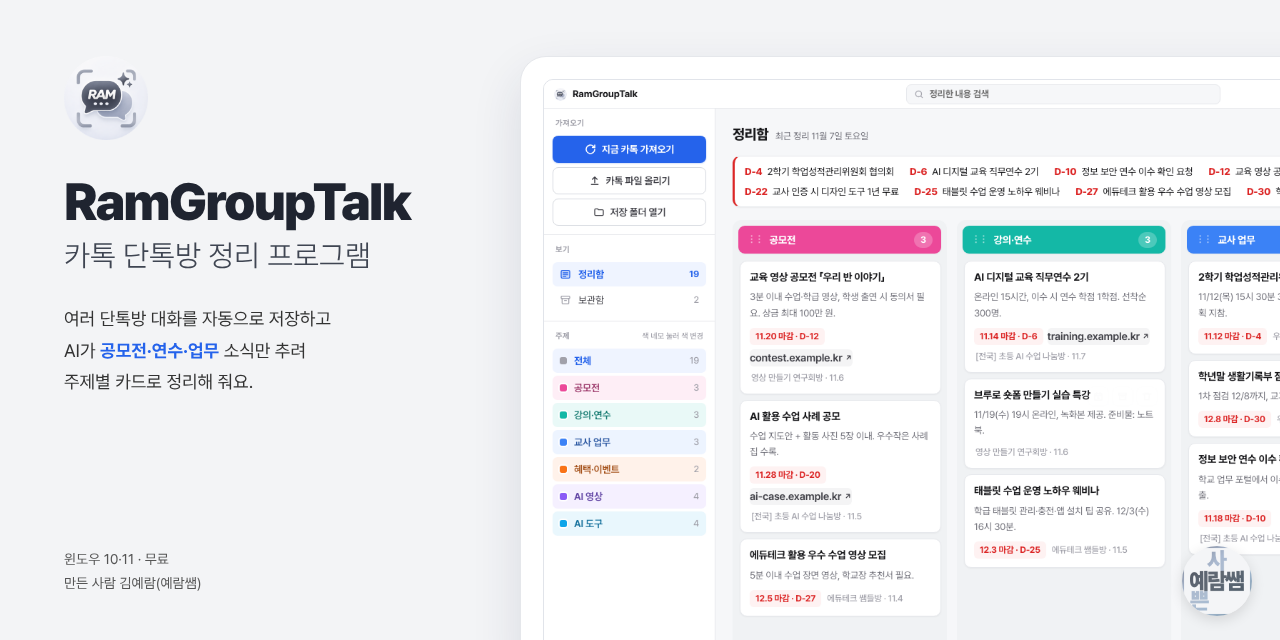
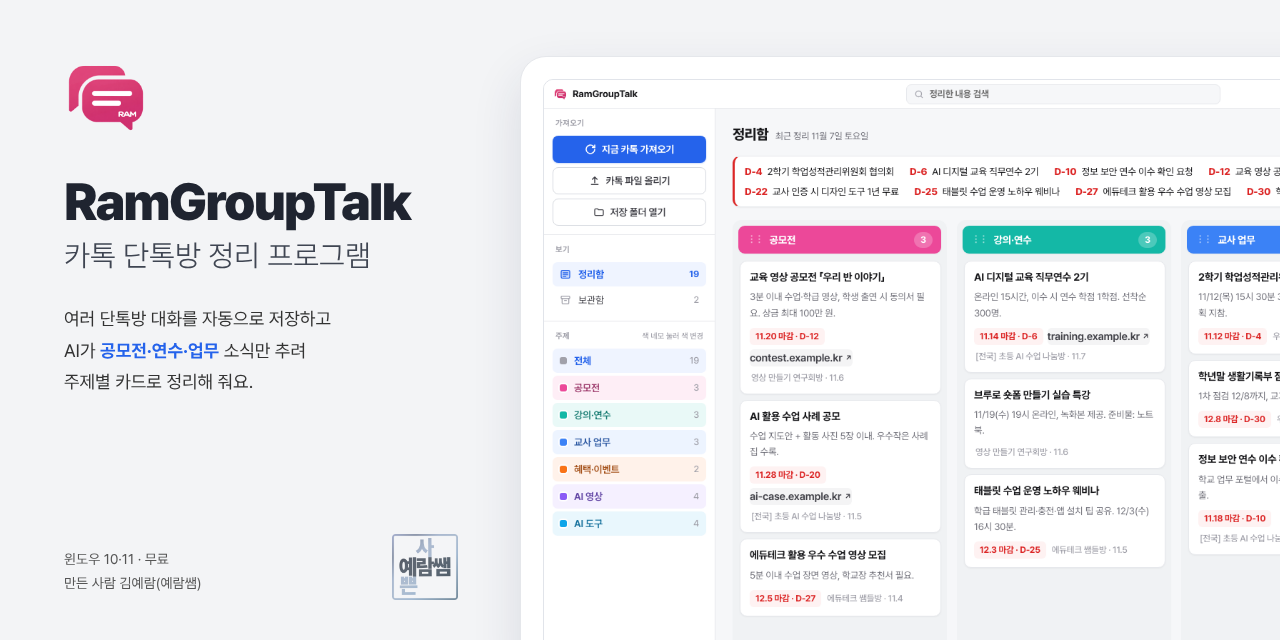
README: 새 아이콘으로 캡처 다시 찍기, 앱 아이콘 고르기 설명 추가
Claude-Session: https://claude.ai/code/session_01GAFtkiH5wfxvKArnVFDmcz

Changed region(s): [[0.0312, 0.0938, 0.125, 0.2188], [0.9062, 0.8438, 0.9688, 0.9688], [0.3125, 0.8125, 0.375, 0.9375]]

diff --git a/README.md b/README.md
@@ -19,7 +19,7 @@
 | | 내용 | |
 |---|---|---|
 | 01 | [소개](#01-소개) | 이런 걸 할 수 있어요 |
-| 02 | [기능 살펴보기](#02-기능-살펴보기) | 가져오기 · 주제 칸 · 마감 · 카드 · 캘린더 · 디자인 |
+| 02 | [기능 살펴보기](#02-기능-살펴보기) | 가져오기 · 주제 칸 · 마감 · 카드 · 캘린더 · 디자인 · 아이콘 |
 | 03 | [설치하기](#03-설치하기) | 내려받기 · Windows의 PC 보호 · 설치 |
 | 04 | [처음 설정](#04-처음-설정) | 단톡방 이름 · 제미나이 키 · 구글 연결 |
 | 05 | [업데이트](#05-업데이트) | 새 버전 받기 |
@@ -40,7 +40,7 @@
 | **마감 임박** | 마감일이 있는 카드는 D-day 순서로 맨 위에 모아 보여 줘요. |
 | **캘린더 등록** | 카드를 구글 캘린더에 Ram Calendar와 같은 규칙으로 넣어요. |
 | **동기화** | 구글 계정으로 연결하면 집·학교 컴퓨터에서 같은 정리함을 봐요. |
-| **스킨** | 평면·유리·입체 37가지 디자인에 핵심 색·글꼴·간격까지 바꿀 수 있어요. |
+| **스킨·아이콘** | 평면·유리·입체 37가지 디자인에 핵심 색·글꼴·간격, 앱 아이콘 6가지까지 고를 수 있어요. |
 
 ---
 
@@ -111,11 +111,17 @@
 <p align="center"><img src="docs/readme/set_look.png" alt="화면·디자인 설정" width="68%"></p>
 <p align="center"><sub><b>그림 11</b> 설정 → 화면·디자인 — 스킨을 누르면 바로 미리 보여요</sub></p>
 
+### 앱 아이콘 고르기
+같은 화면에서 앱 아이콘을 6가지 가운데 고를 수 있어요. **저장**하면 작업 표시줄, 바탕화면·시작 메뉴 바로가기, 트레이, 창 위쪽 아이콘이 함께 바뀌어요.
+
+<p align="center"><img src="docs/readme/set_icon.png" alt="앱 아이콘 고르기" width="68%"></p>
+<p align="center"><sub><b>그림 12</b> 설정 → 화면·디자인 → 앱 아이콘</sub></p>
+
 ### 좁은 창에서도
 창을 좁히면 메뉴가 위로 올라가고, 주제 칸은 그대로 옆으로 넘겨 봐요. 화면 한쪽에 띄워 두고 쓰기 좋아요.
 
 <p align="center"><img src="docs/readme/f_narrow.png" alt="좁은 창" width="40%"></p>
-<p align="center"><sub><b>그림 12</b> 좁은 창 화면</sub></p>
+<p align="center"><sub><b>그림 13</b> 좁은 창 화면</sub></p>
 
 ---
 
@@ -151,7 +157,7 @@
 **카톡 가져오기** 탭에서 단톡방 이름을 한 줄에 하나씩 적어요. 이름 일부만 적어도 되고(예: `[전국] 2학년 선생님 모임` → `2학년 선생님`), 다른 방과 겹치지 않을 만큼만 적으면 돼요. 매일 자동으로 가져올 시각과 대화 저장 폴더도 여기서 정해요.
 
 <p align="center"><img src="docs/readme/set_kakao.png" alt="설정 - 카톡 가져오기" width="68%"></p>
-<p align="center"><sub><b>그림 13</b> 설정 → 카톡 가져오기</sub></p>
+<p align="center"><sub><b>그림 14</b> 설정 → 카톡 가져오기</sub></p>
 
 ### ② 제미나이 API 키 (무료)
 **AI 요약** 탭에서 키를 붙여 넣고 **확인**을 눌러요. 키가 맞는지 바로 알려 주고 저장해요.
@@ -161,13 +167,13 @@
 3. RamGroupTalk 설정 → AI 요약에 붙여 넣고 **확인**.
 
 <p align="center"><img src="docs/readme/set_ai.png" alt="설정 - AI 요약" width="68%"></p>
-<p align="center"><sub><b>그림 14</b> 설정 → AI 요약</sub></p>
+<p align="center"><sub><b>그림 15</b> 설정 → AI 요약</sub></p>
 
 ### ③ 구글 연결 (선택)
 집·학교 컴퓨터에서 같은 정리함을 보거나 구글 캘린더에 일정을 넣으려면 **구글 연결** 탭에서 **구글 계정 연결**을 눌러요. 브라우저가 열리면 로그인하고 허용하면 돼요. 두 컴퓨터 모두 같은 구글 계정으로 연결해야 해요.
 
 <p align="center"><img src="docs/readme/set_gcal.png" alt="설정 - 구글 연결" width="68%"></p>
-<p align="center"><sub><b>그림 15</b> 설정 → 구글 연결</sub></p>
+<p align="center"><sub><b>그림 16</b> 설정 → 구글 연결</sub></p>
 
 설정을 마치면 **저장**을 누르고, 왼쪽 위 **지금 카톡 가져오기**를 눌러 보세요.
 
